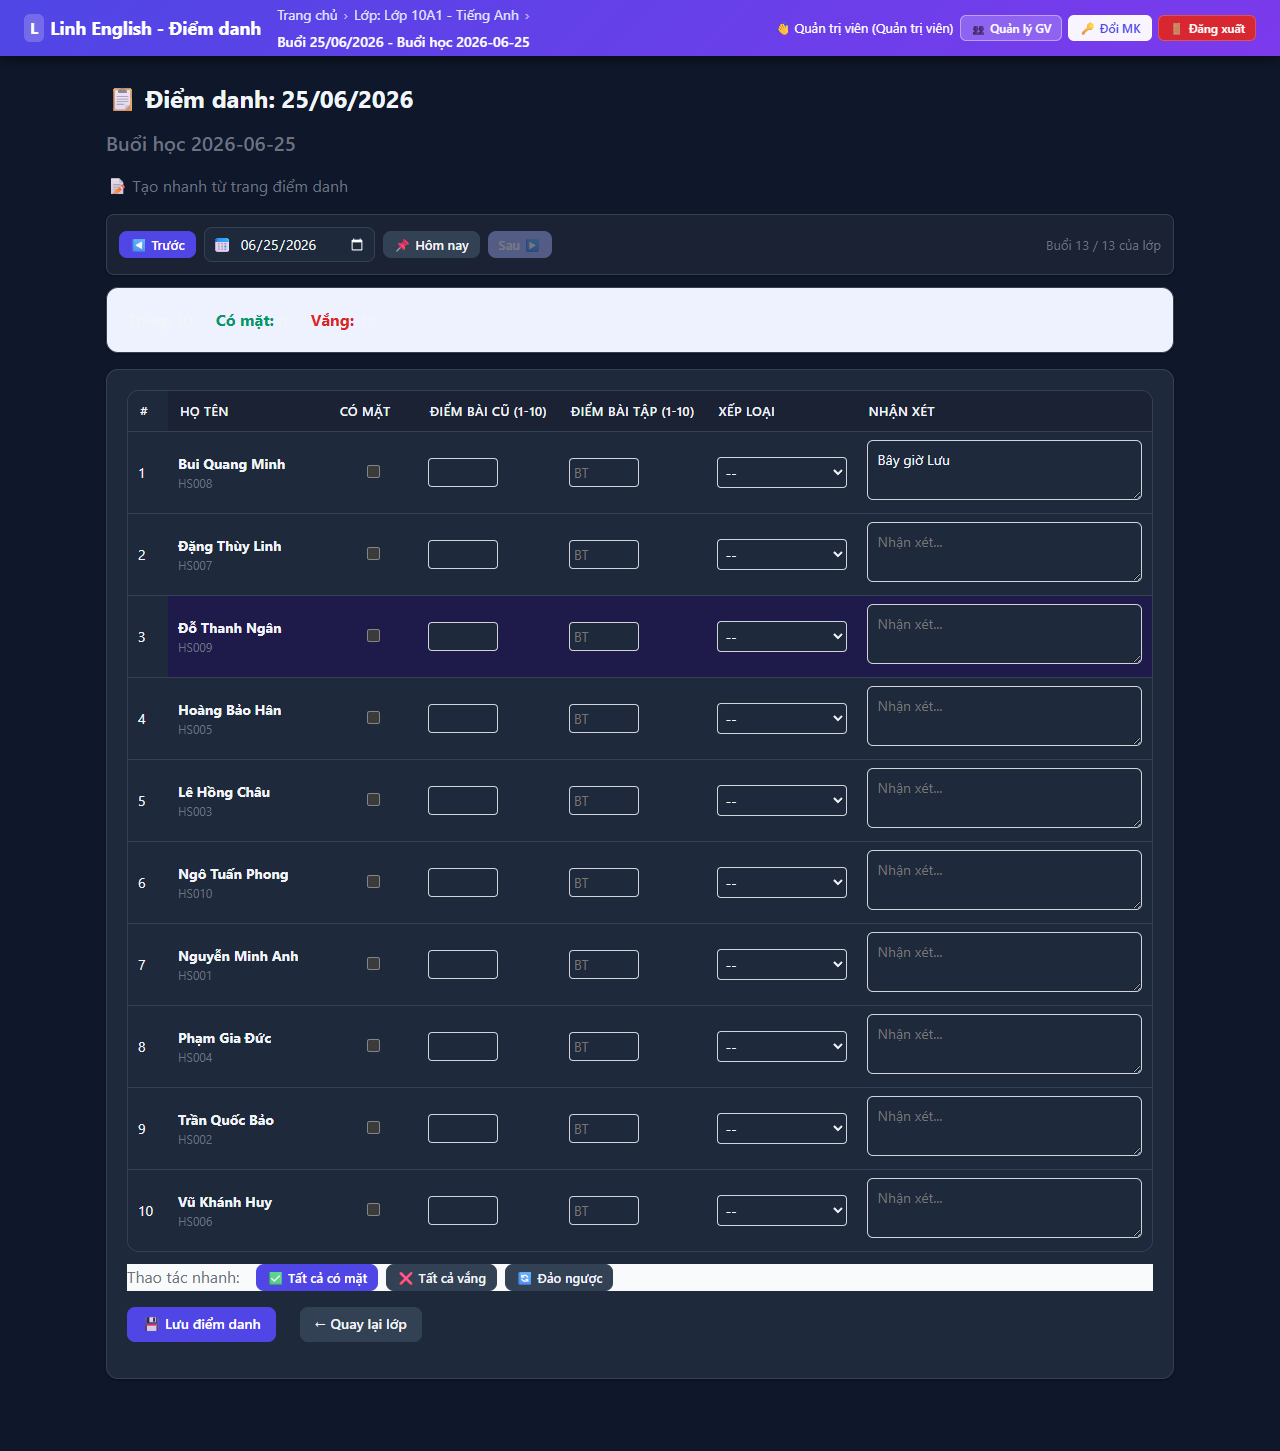
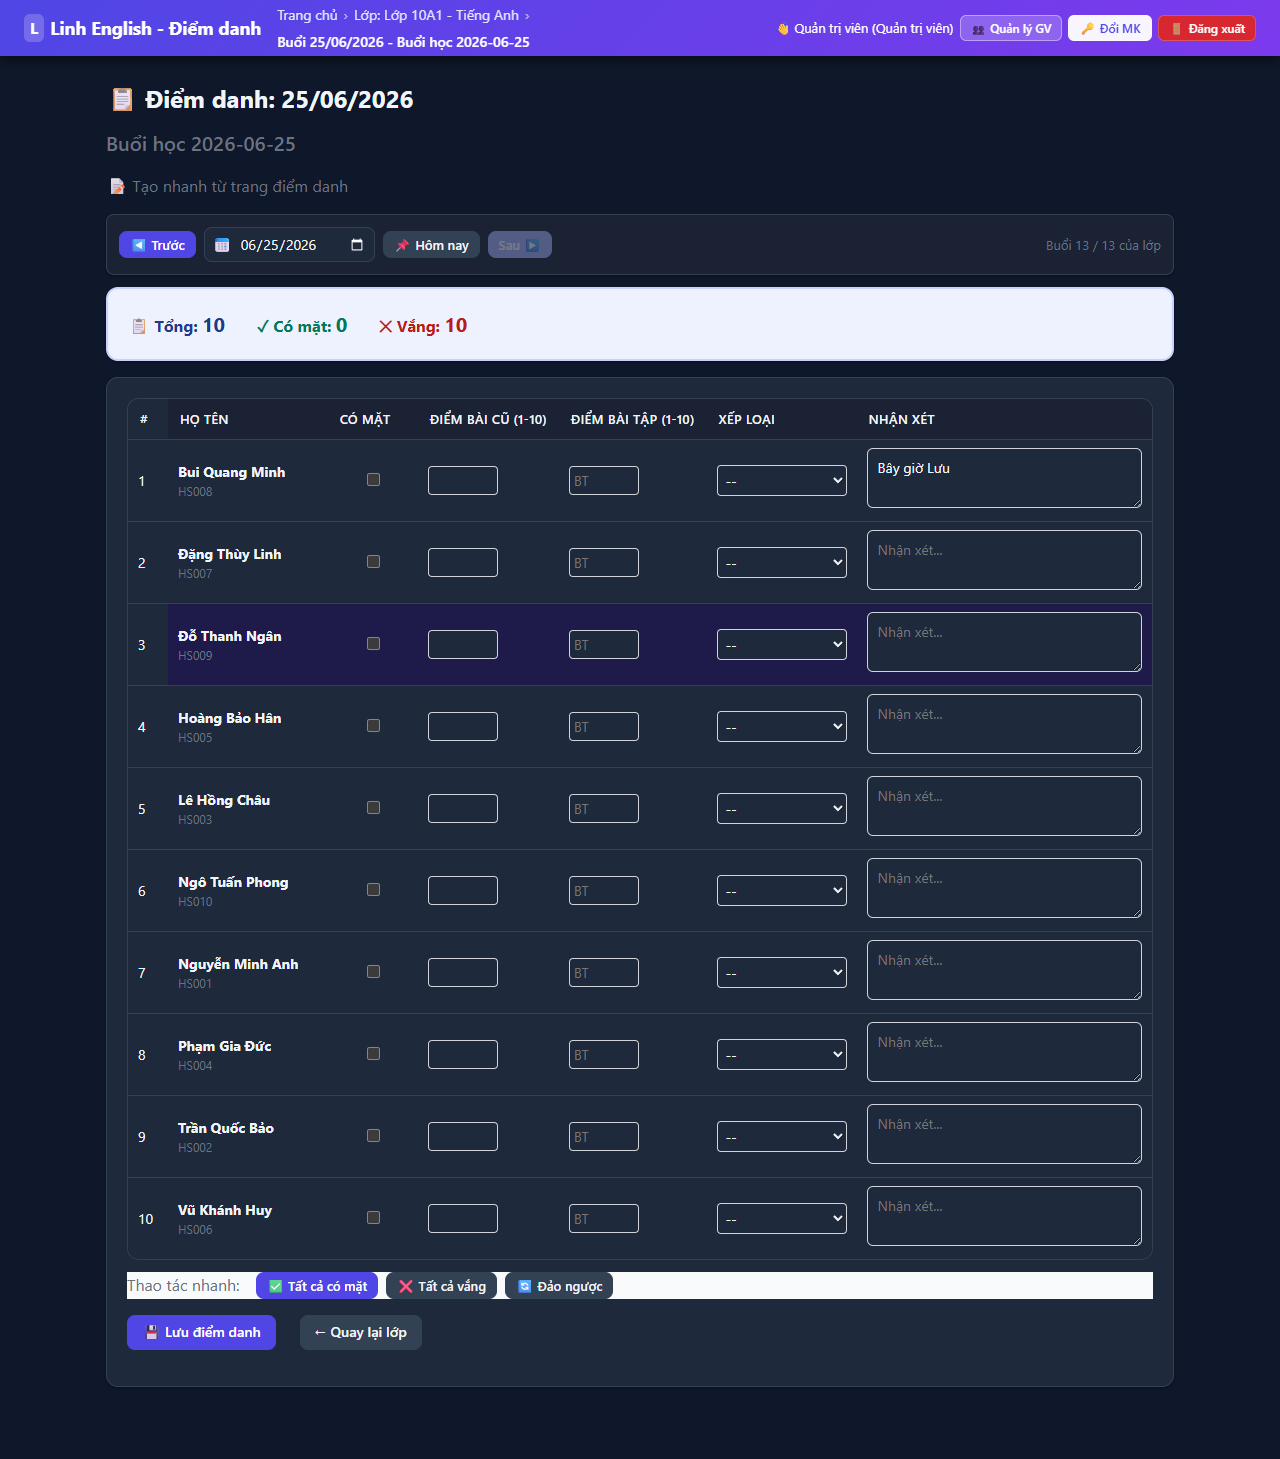
update

diff --git a/frontend/js/app.js b/frontend/js/app.js
@@ -1097,10 +1097,16 @@ function updateSummary() {
   const sumCard = $('#attendanceSummary');
   if (sumCard) {
     sumCard.innerHTML = `
-      <div style="display:flex; gap:24px; flex-wrap:wrap">
-        <div><strong>Tổng:</strong> ${currentAttendances.length}</div>
-        <div><strong style="color:#059669">Có mặt:</strong> ${present}</div>
-        <div><strong style="color:#dc2626">Vắng:</strong> ${absent}</div>
+      <div style="display:flex; gap:24px; flex-wrap:wrap; align-items:center; font-size:15px">
+        <div><strong style="color:#1e3a8a; font-size:18px; font-weight:700">📋 Tổng:</strong>
+          <span style="color:#1e3a8a; font-size:20px; font-weight:700; margin-left:4px">${currentAttendances.length}</span>
+        </div>
+        <div><strong style="color:#047857; font-size:18px; font-weight:700">✓ Có mặt:</strong>
+          <span style="color:#047857; font-size:20px; font-weight:700; margin-left:4px">${present}</span>
+        </div>
+        <div><strong style="color:#b91c1c; font-size:18px; font-weight:700">✕ Vắng:</strong>
+          <span style="color:#b91c1c; font-size:20px; font-weight:700; margin-left:4px">${absent}</span>
+        </div>
       </div>`;
   }
 }
@@ -1205,14 +1211,23 @@ function paintSessionEditor(editable) {
     return;
   }
 
-  // Tóm tắt
+  // Tóm tắt - dùng màu tối đậm, font to, nền nổi bật
   const present = currentAttendances.filter(a => a.is_present == 1).length;
   const absent  = currentAttendances.filter(a => a.is_present == 0).length;
-  const summary = el('div', { class: 'card', id: 'attendanceSummary', style: { background: '#eef2ff' } },
-    el('div', { style: { display: 'flex', gap: '24px', flexWrap: 'wrap' } },
-      el('div', {}, el('strong', {}, 'Tổng: '), currentAttendances.length),
-      el('div', {}, el('strong', { style: { color: '#059669' } }, 'Có mặt: '), present),
-      el('div', {}, el('strong', { style: { color: '#dc2626' } }, 'Vắng: '), absent),
+  const summary = el('div', { class: 'card', id: 'attendanceSummary', style: { background: '#eef2ff', border: '2px solid #c7d2fe' } },
+    el('div', { style: { display: 'flex', gap: '32px', flexWrap: 'wrap', alignItems: 'center' } },
+      el('div', {},
+        el('strong', { style: { color: '#1e3a8a', fontSize: '16px', fontWeight: '700' } }, '📋 Tổng: '),
+        el('span', { style: { color: '#1e3a8a', fontSize: '20px', fontWeight: '700' } }, String(currentAttendances.length))
+      ),
+      el('div', {},
+        el('strong', { style: { color: '#047857', fontSize: '16px', fontWeight: '700' } }, '✓ Có mặt: '),
+        el('span', { style: { color: '#047857', fontSize: '20px', fontWeight: '700' } }, String(present))
+      ),
+      el('div', {},
+        el('strong', { style: { color: '#b91c1c', fontSize: '16px', fontWeight: '700' } }, '✕ Vắng: '),
+        el('span', { style: { color: '#b91c1c', fontSize: '20px', fontWeight: '700' } }, String(absent))
+      ),
     )
   );
   main.appendChild(summary);
